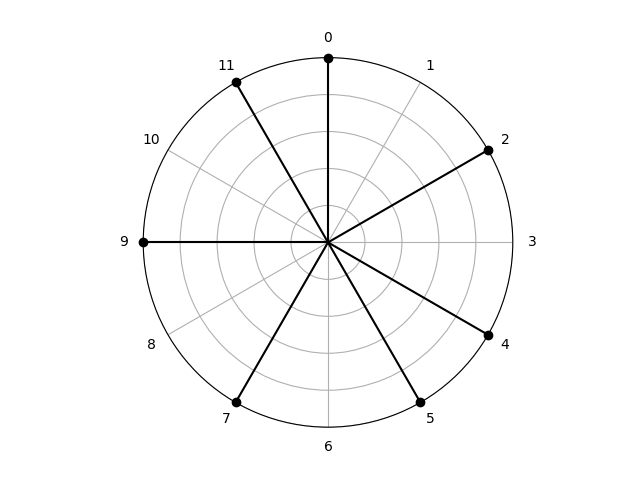
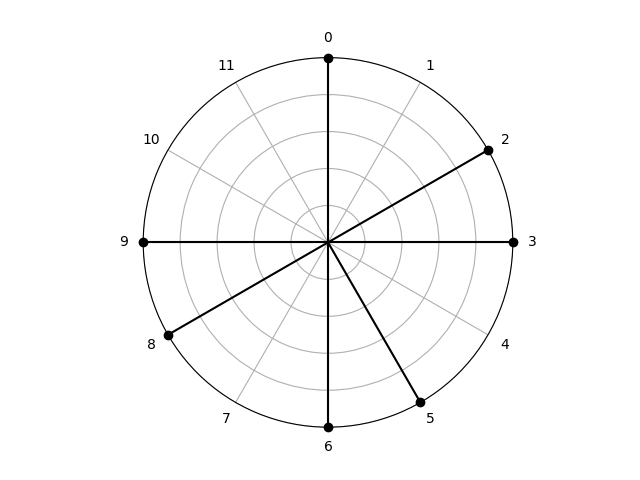
add polar to docs

diff --git a/mscales/plots.py b/mscales/plots.py
@@ -25,16 +25,15 @@ def plot_scale(s, save=False):
 def plot_polar(s, save=False):
     c = s.shape[0]
 
+    # figure and axis settings
     _, ax = plt.subplots(subplot_kw={"projection": "polar", "clip_on": False})
     ax.set_theta_direction(-1)
-    # ax.set_theta_offset(np.pi / 2.0)
     ax.set_theta_zero_location("N")
     ax.set_yticklabels([])
     ax.set_ylim(0, 1)
-    # ax.set_xmargin(.1)
-    # ax.set_clip_on(False)
     plt.thetagrids(np.linspace(0, 360, c, endpoint=False), np.arange(c))
 
+    # data
     thetas = [k / c * 2 * np.pi for k in np.argwhere(s > 0)]
     radii = np.ones(len(thetas))
 
@@ -45,3 +44,7 @@ def plot_polar(s, save=False):
     if save:
         plt.savefig(save)
     plt.show()
+
+
+s = np.array([1, 0, 1, 1, 0, 1, 1, 0, 1, 1, 0, 0])
+plot_polar(s, save="../docs/source/img/example-scale-polar.png")

diff --git a/docs/source/index.rst b/docs/source/index.rst
@@ -98,18 +98,29 @@ as a list of Counter objects:
 Plotting
 --------
 
-Scales from this collection can then be accessed and plotted:
+Scales from this collection can then be accessed and plotted. 
+Either as a simple bar plot:
 
 .. code-block:: python
 
    import matplotlib.pyplot as plt
-   from mscales.plots import plot_scale
+   from mscales.plots import plot_scale, plot_polar
 
    plot_scale(scale)
    plt.show()
 
 .. image:: img/example-scale.png
    :alt: Example scale.
+
+or as a polar stem plot:
+
+.. code-block:: python
+
+   plot_polar(scale)
+   plt.show()
+
+.. image:: img/example-scale-polar.png
+   :alt: Example scale (polar).
 
 Sonification
 ------------
